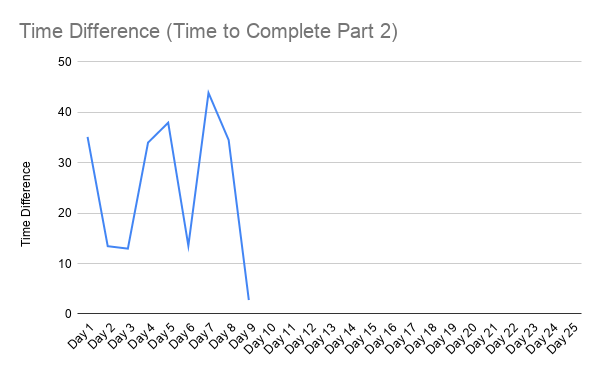
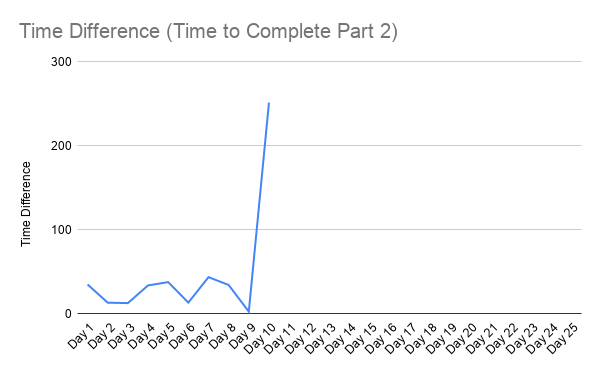
Day 10 stats

diff --git a/README.md b/README.md
@@ -31,7 +31,7 @@ Leaderboard appearances:
 | 7    | 02:34:51 (3481)               | 03:18:43 (2031)               | 43.86666667                   | Required Multithreading for part 2 (shy of completely redoing the IntComputer) |
 | 8    | 35:14:42 (15590)              | 35:49:13 (15342)              | 34.51666667                   |      |
 | 9    | 17:46:15 (9648)               | 17:49:01 (9648)               | 2.766666667                   |      |
-| 10   |                               |                               |                               |      |
+| 10   | 11:46:28 (7072)               | 15:58:12 (5927)               | 251.7333                      |      |
 | 11   |                               |                               |                               |      |
 | 12   |                               |                               |                               |      |
 | 13   |                               |                               |                               |      |
@@ -45,9 +45,9 @@ Leaderboard appearances:
 | 21   |                               |                               |                               |      |
 | 22   |                               |                               |                               |      |
 | 23   |                               |                               |                               |      |
-| 24🎅 |                               |                               |                               |     |
-| 25🎄 |                               |                               |                               |     |
-| Avg  | 11:42:35 (8841)               | 12:07:56 (8247)               | 0:25:21                       |      |
+| 24🎅 |                               |                               |                               |      |
+| 25🎄 |                               |                               |                               |      |
+| Avg  | 11:42:58 (8664)               | 12:07:56 (8015)               | 00:48:00                      |      |
 
 | <img alt="Part 1 Time Stats" src="https://raw.githubusercontent.com/hbiede/AoC-2019/master/stats/Part%201%20Time%20%28minutes%29.png" width=400> | <img alt="Part 1 Rank" src="https://raw.githubusercontent.com/hbiede/AoC-2019/master/stats/Part%201%20Rank.png" width=400> |
 | <img alt="Part 2 Time Stats" src="https://raw.githubusercontent.com/hbiede/AoC-2019/master/stats/Part%202%20Time%20%28minutes%29.png" width=400> | <img alt="Part 2 Rank" src="https://raw.githubusercontent.com/hbiede/AoC-2019/master/stats/Part%202%20Rank.png" width=400> |
